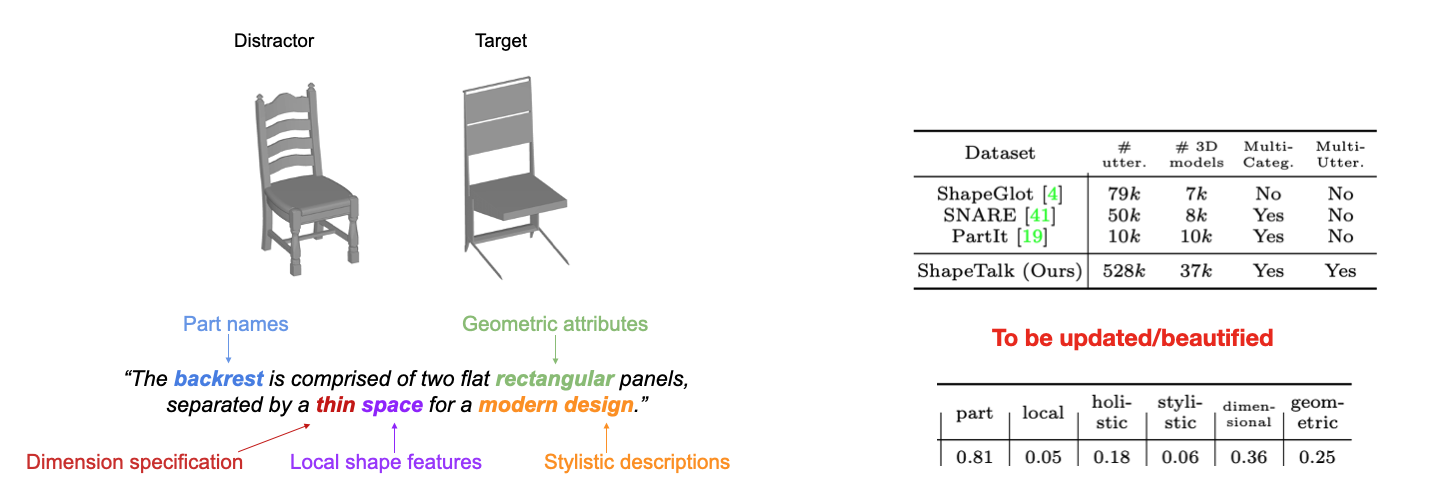
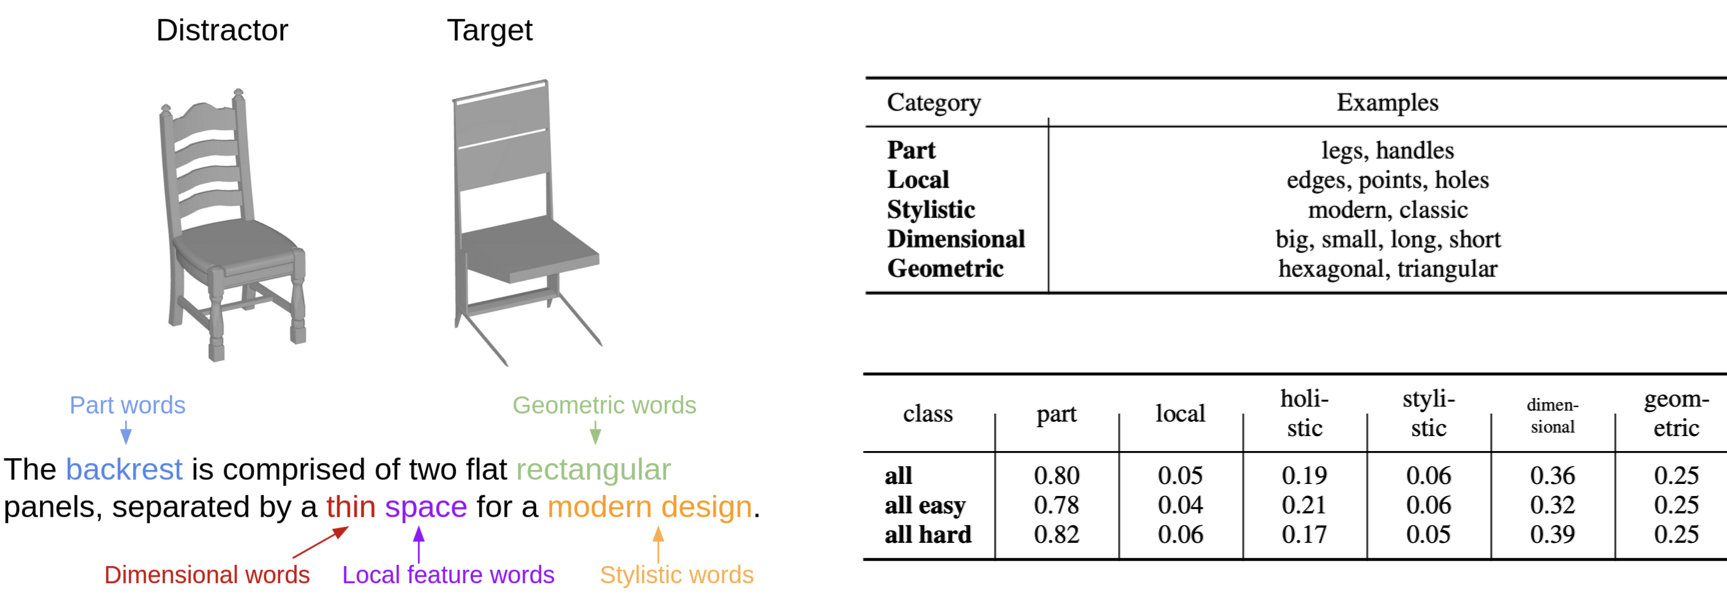
mdb

diff --git a/index.html b/index.html
@@ -183,7 +183,7 @@
                 <figure style="padding-bottom:80px;">
                     <img src="img/shapetalk_analysis.png" style="padding-bottom:15px;" class="img-responsive">
                     <figcaption style="background-color:aliceblue;padding:10px">
-                        <b>Key characteristics of ShapeTalk.</b> ShapeTalk's corpus explains the shapes for a large variety of common 3D objects in a rich and (by construction) discriminative manner. <i>Shape parts</i>, <i>geometric attributes</i> and <i>dimensional specifications</i>, are some of the main typical properties that annotators include in their references.
+                        <b>Key characteristics of ShapeTalk.</b> ShapeTalk's corpus explains the shapes for a large variety of common 3D objects in a rich and (by construction) discriminative manner. <i>Shape parts</i>, <i>geometric attributes</i> and <i>dimensional specifications</i>, are some of the main typical properties that annotators include in their references. See prototypical words for these properties (right, top). Interestingly, when the compared objects have on average a higher degree of shape similarity ("all  hard class"), part-based and local reference is more frequent compared to when contrasting less similar ("all easy class") shapes.
                     </figcaption>
                 </figure>                
             
@@ -237,19 +237,21 @@
             </h3>
 
                 <figure style="padding-bottom:80px">
-                    <img src="img/qualitative_teaser_v3.png" style="padding-bottom:15px" class="img-responsive">
+                    <img src="img/qualitative_teaser.png" style="padding-bottom:15px" class="img-responsive">
                     <figcaption style="background-color:aliceblue;padding:10px">
-                        <b>Qualitative edits produced by ChangeIt3DNet.</b> The results are based on an SGF backbone AE, decoding pointclouds with 2048 per shape. The achieved edits are oftentimes local, e.g., thinner legs, fine-grained, as in circle in the back, or entail high-level and complex shape understanding, e.g. it appears more sturdy. Remarkably, these edits are derived by ChangeIt3DNet which does not utilize any form an explicit geometric local prior of shapes (part-like, or otherwise); but instead learns solely from the implicit bias of training with referential language.
+                        <b>Qualitative edits produced by ChangeIt3DNet.</b> The results are derived by using an ImNet-based AE operating with  implicit shape field. The achieved edits are oftentimes local, e.g., thinner legs, fine-grained, as in slatted back, or entail high-level and complex shape understanding, e.g. it appears more sturdy. Remarkably, these edits are derived by ChangeIt3DNet which does not utilize any form an explicit geometric local prior of shapes (part-like, or otherwise); but instead learns solely from the implicit bias of training with referential language. 
+
+                        <!-- , decoding pointclouds with 2048 per shape.-->
                     </figcaption>
                 </figure>
 
-                <figure style="padding-bottom:80px;">
+                <!-- <figure style="padding-bottom:80px;">
                     <img src="img/mesh_output_figure.png" style="padding-bottom:15px;" class="img-responsive">
                     <figcaption style="background-color:aliceblue;padding:10px">
                         <b>Mesh outputs.</b> Green is input; red is output. The shown meshes are derived by estimating the magnitude of the predicted gradient from our pretrained SGF AE and applying marching cubes to the resulting unsigned distance field. The corresponding pointcloud predictions from SGF are included in the above Figure.
                     </figcaption>
                 </figure>
-         
+          -->
 
         </div>
     </div>
@@ -264,7 +266,7 @@
             <p class="text-justify">If you find our work useful in your research, please consider citing:</p>
 
             <pre class="w1-panel w3-leftbar w3-light-grey">
-@article{achlioptas2022changeIt3D,
+@article{achlioptas2023shapetalk,
     title={{ChangeIt3D}: Language-Assisted 3D Shape Edits and Deformations},
     author={Achlioptas, Panos and Huang, Ian and Sung, Minhyuk and Tulyakov, Sergey and Guibas, Leonidas},    
     journal={https://changeit3d.github.io/},    
